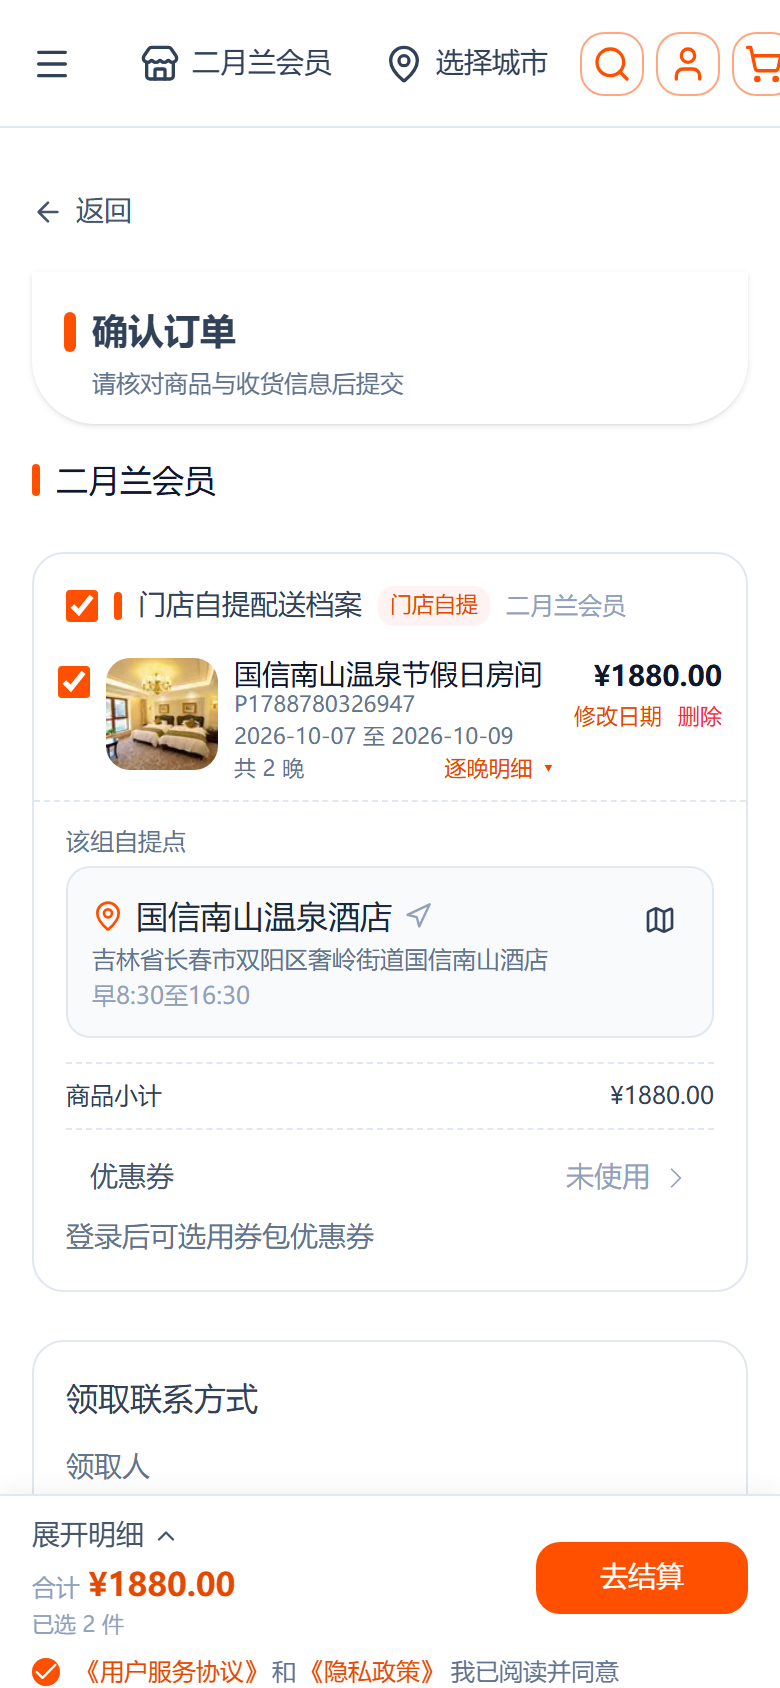
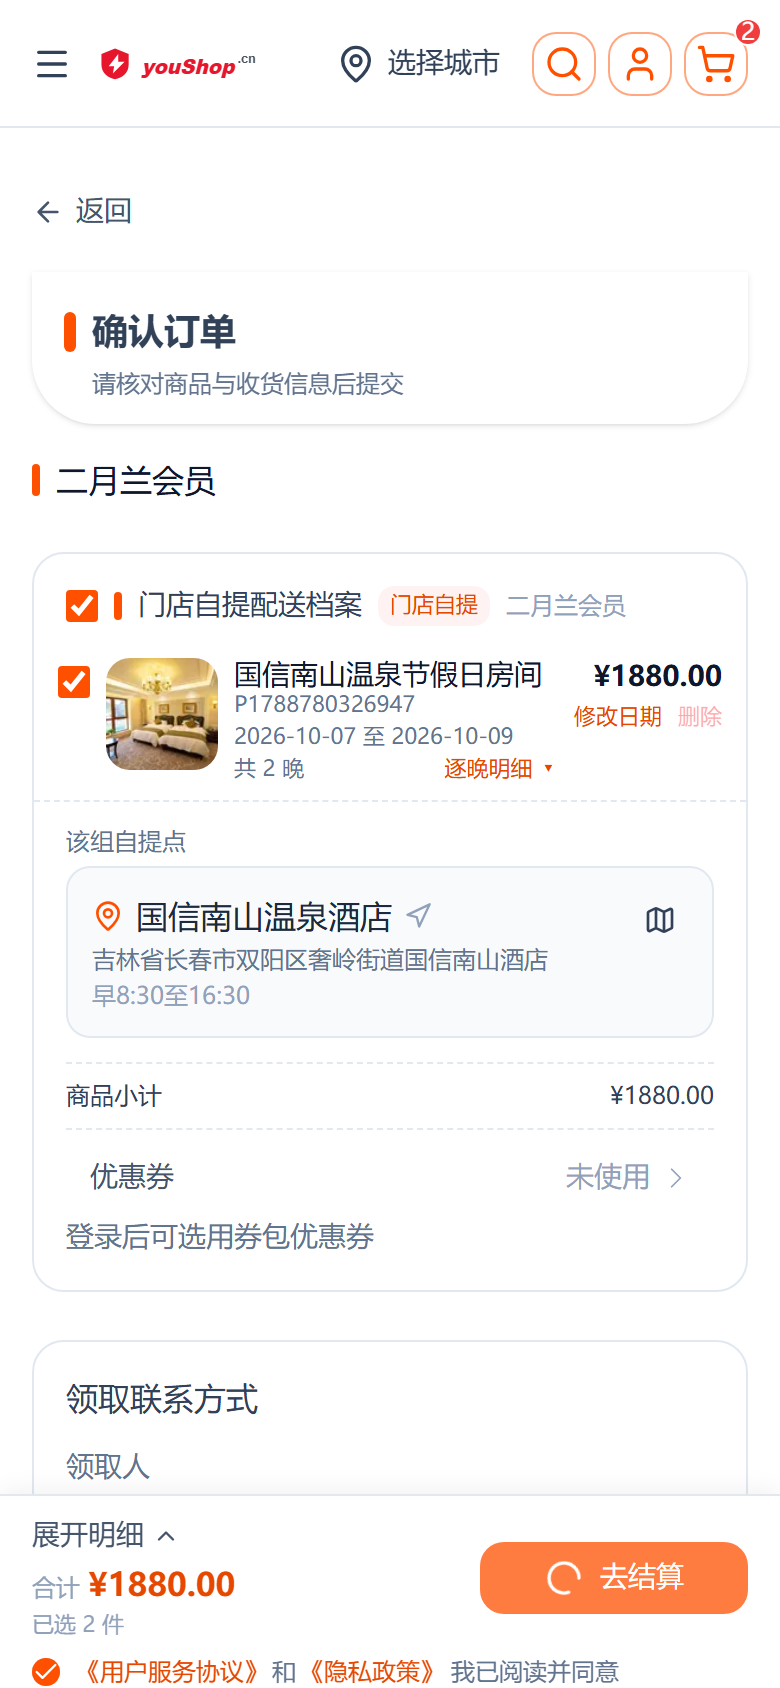
test(hotel): 页头移动端 390px 断言与重出截图，补手册 6.10 与计划记录
录图脚本新增页头段（结算页/首页无横向溢出、logo 可用宽 ≥80px）；步进 +1 按当前数量判断后重试，消除刚重启 hydration 落空导致的偶发失败；手册 6.10 记录页头修复与 12 语言包补齐，6.2/6.6 同步更新。

Changed region(s): [[0.1231, 0.0, 1.0, 0.0616], [0.6154, 0.8934, 0.9846, 0.955], [0.8615, 0.4005, 0.9231, 0.4313]]

diff --git a/docs/manual/product-detail/index.md b/docs/manual/product-detail/index.md
@@ -203,12 +203,12 @@
 
 ![结算页（展开逐晚明细）：明细块独占整行，10-07 节假日 ¥1000.00 / 10-08 ¥880.00 / 住宿合计 ¥1880.00](../shots/2026-09-30-hotel-orderline/04-checkout-expanded.png)
 
-![页头品牌去重：品牌位仅一个标识，不再重复渲染租户名](../shots/2026-09-30-hotel-orderline/05-header-brand.png)
+![页头（移动端）：品牌 logo 完整可见、无横向溢出，「二月兰会员」租户按钮仅在抽屉内出现](../shots/2026-09-30-hotel-orderline/05-header-brand.png)
 
 - 详情页：日期条可改期；「逐日计价」逐晚列出日期 + 日类型 + 价格，底部「预估总价 / 日均价」；加入购物车/立即购买受库存与晚数范围校验
 - 购物车/结算/订单：酒店行统一显示「共 N 晚 · YYYY-MM-DD 至 YYYY-MM-DD」，**不显示单价、无数量步进器**（晚数由日期决定，不可步进）
 - 结算页：金额只在行内显示合计（¥1880.00），点「逐晚明细」展开逐晚价格与「住宿合计」；明细块独占整行
-- 页头：品牌位（Logo）与租户名切换器去重，不再叠加渲染租户名文本
+- 页头：品牌位只渲染 logo 图（不再叠加租户名文本）；移动端（<640px）页头不渲染租户切换按钮，租户入口收敛到抽屉（`#body`），避免右侧组撑破 390px 视口、logo 被压成细缝（见 6.10）
 
 ### 6.3 后台配置：房源与逐晚价
 
@@ -311,7 +311,7 @@ PASS  06-checkout-normal-product.png 尺寸：780×1688（期望 780×1688）
 
 ### 6.6 已知边界
 
-- **i18n 兜底**：`messages.hotel.*`（`nights / dateRange / nightlyDetail / changeDates / stayTotal / selectDatesFirst / nightsOutOfRange`）目前**仅 `zh-CN` 与 `en-US` 两个语言包完整定义**，其余语言包未定义该命名空间，按回退链落到中文兜底（`merge.ts` 以中文为基底深合并）；新增语言时需同步补词条。
+- **i18n 词条（12 语言包已补全）**：`messages.hotel.*`（`nights / dateRange / nightlyDetail / changeDates / stayTotal / selectDatesFirst / nightsOutOfRange`）已在全部 12 个语言包（`zh-CN / en-US / fa-IR / bg-BG / ru-RU / ko-KR / it-IT / ja-JP / pt-BR / fr-FR / es-ES / de-DE`）定义，占位符 `{n}/{in}/{out}/{min}/{max}` 原样保留；`merge.ts` 仍以中文为基底兜底，新增语言时需同步补词条（见 6.10）。
 - **商品行第二行宽度的多语言余量**：普通商品行第二行（单价 / 步进器 / 小计 / 删除）在 zh-CN 下几乎占满可用宽（实测右边缘余量约 2px）。更长语言（如 en-US "Delete"）靠该行 `flex-wrap` 换行兜底，不会溢出容器；若某语言的单价或小计位数显著更长，需重新核算该行宽度预算。
 
 ### 6.7 本次线上 500 缺陷记录
@@ -342,6 +342,33 @@ PASS  06-checkout-normal-product.png 尺寸：780×1688（期望 780×1688）
 - **布局缺陷（真实代码问题）**：`layers/base/app/components/checkout/BoxLines.vue` 的商品行 `<li>` 是 `flex`（默认 `nowrap`），展开的「逐晚明细」块虽写了 `w-full basis-full` 却**无法换行**，被压缩挤在同一行内，导致中间描述列宽度趋近于 0、日期文案逐字竖排；同时酒店行多了一个独立「共 N 晚」定宽列（`w-14`），进一步挤占描述列。→ 修法：商品行 `<li>` 追加 `flex-wrap`（当时只在酒店行加，普通商品行于 6.5 改为折行布局后同样依赖它）；去掉独立晚数列，把「共 2 晚」并入描述列与「逐晚明细」同排；日期行加 `truncate`、操作行加 `whitespace-nowrap` 兜底。
 - 修复后：折叠态日期单行显示、展开态明细块独占整行横跨（见 6.2 第 3、4 张图）。
 - 同一轮回归截图暴露普通商品行「商品名被挤到约 1 个字」，已按 6.5 出内联 mockup 定稿后修复（方案 A 折行式），`<li>` 的 `flex-wrap` 改为两分支共用。
+
+### 6.10 页头品牌去重与移动端 390px 溢出修复（2026-10-01）
+
+两处页头缺陷同轮修复（`d:\zhao\nshop\layers\base\app\components\`）：
+
+**① 品牌位去重（`header/LogoElement.vue`）**
+- 现象：t2 租户「二月兰会员」在页头渲染出**两个同名文本**，左侧 logo 位那个被压扁变形。
+- 根因：`LogoElement.vue` 在无 logo 图时回退渲染租户名文本，与右侧租户切换器按钮的租户名重复。
+- 修法（方案 A）：删除租户名文本分支，品牌位**恒渲染 logo 图**；无图时仅留占位，不再输出文本。
+
+**② 移动端页头隐藏租户按钮（`AppHeader.vue`）**
+- 现象（390px，结算页 t2）：文档 `scrollWidth=398 > 视口 390`（横向可滚、购物车角标被切），品牌 logo 被右侧组挤压成 **32px 细缝**。
+- 根因：页头右侧组为 `租户按钮 + 城市按钮 + 搜索 + 账户 + 购物车`，其中租户名「二月兰会员」5 字使右侧组合计 **338px**（视口 390 − logo 组 32 − 间距）；租户名越长挤压越严重。
+- 修法（方案 A）：`#right` 内的 `HeaderTenantSelector` 包一层 `hidden sm:flex`，**移动端（<640px）不渲染**；租户入口保留在移动端抽屉 `#body` 中的另一份（功能不丢失）。城市选择器保留——它决定配送/库存，是多城市店的主操作。
+- 修后实测（生产 t2，390×844 dpr=2）：结算页/首页 `scrollWidth ≤ 390`（无横向溢出），logo 可用宽 ≥80px（不再是 32px 细缝）。
+
+**③ i18n 12 语言包补全**
+- 6.1 引入的 `messages.hotel.*` 此前仅 `zh-CN / en-US` 定义，其余 10 包缺失（违反「所有语言包必须同步补词条」规范）。
+- 已补齐 `fa-IR / bg-BG / ru-RU / ko-KR / it-IT / ja-JP / pt-BR / fr-FR / es-ES / de-DE` 共 10 包 × 7 键，占位符原样保留，插入位置用语义邻居键（`tWeekend`/`tHoliday`/`tCustom`/`bedType`）定位。12 包均 `keys=7`。
+
+**验收断言**（`scripts/_shot-hotel-checkout.mjs` 页头段，生产 t2）：
+
+```
+PASS  页头-结算页无横向溢出：scrollWidth=390 ≤ 视口 390（修复前 398）
+PASS  页头-首页无横向溢出：scrollWidth=390 ≤ 视口 390
+PASS  页头-logo 可用宽 ≥80px：实际 98px（修复前 32px，被压成细缝）
+```
 
 
 ---
